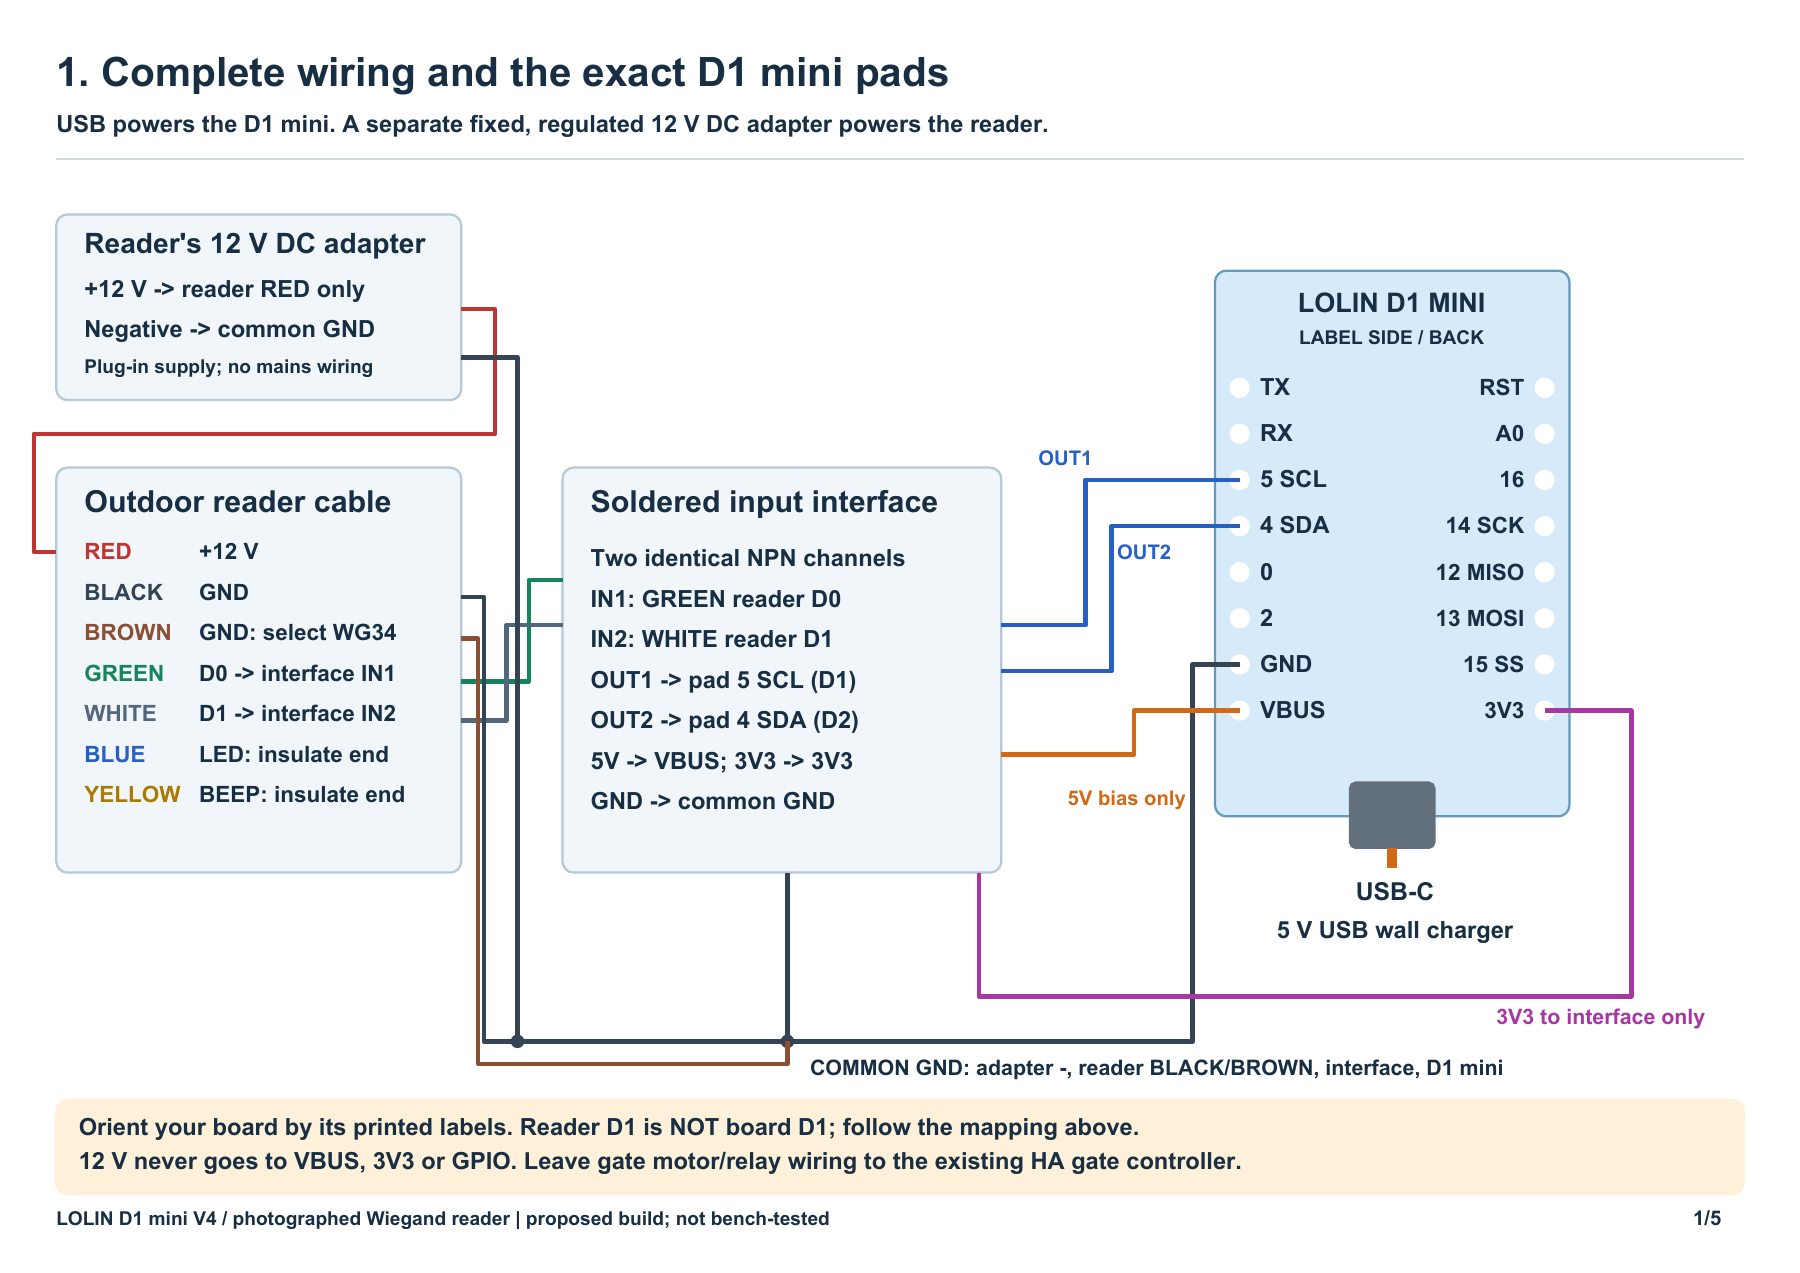
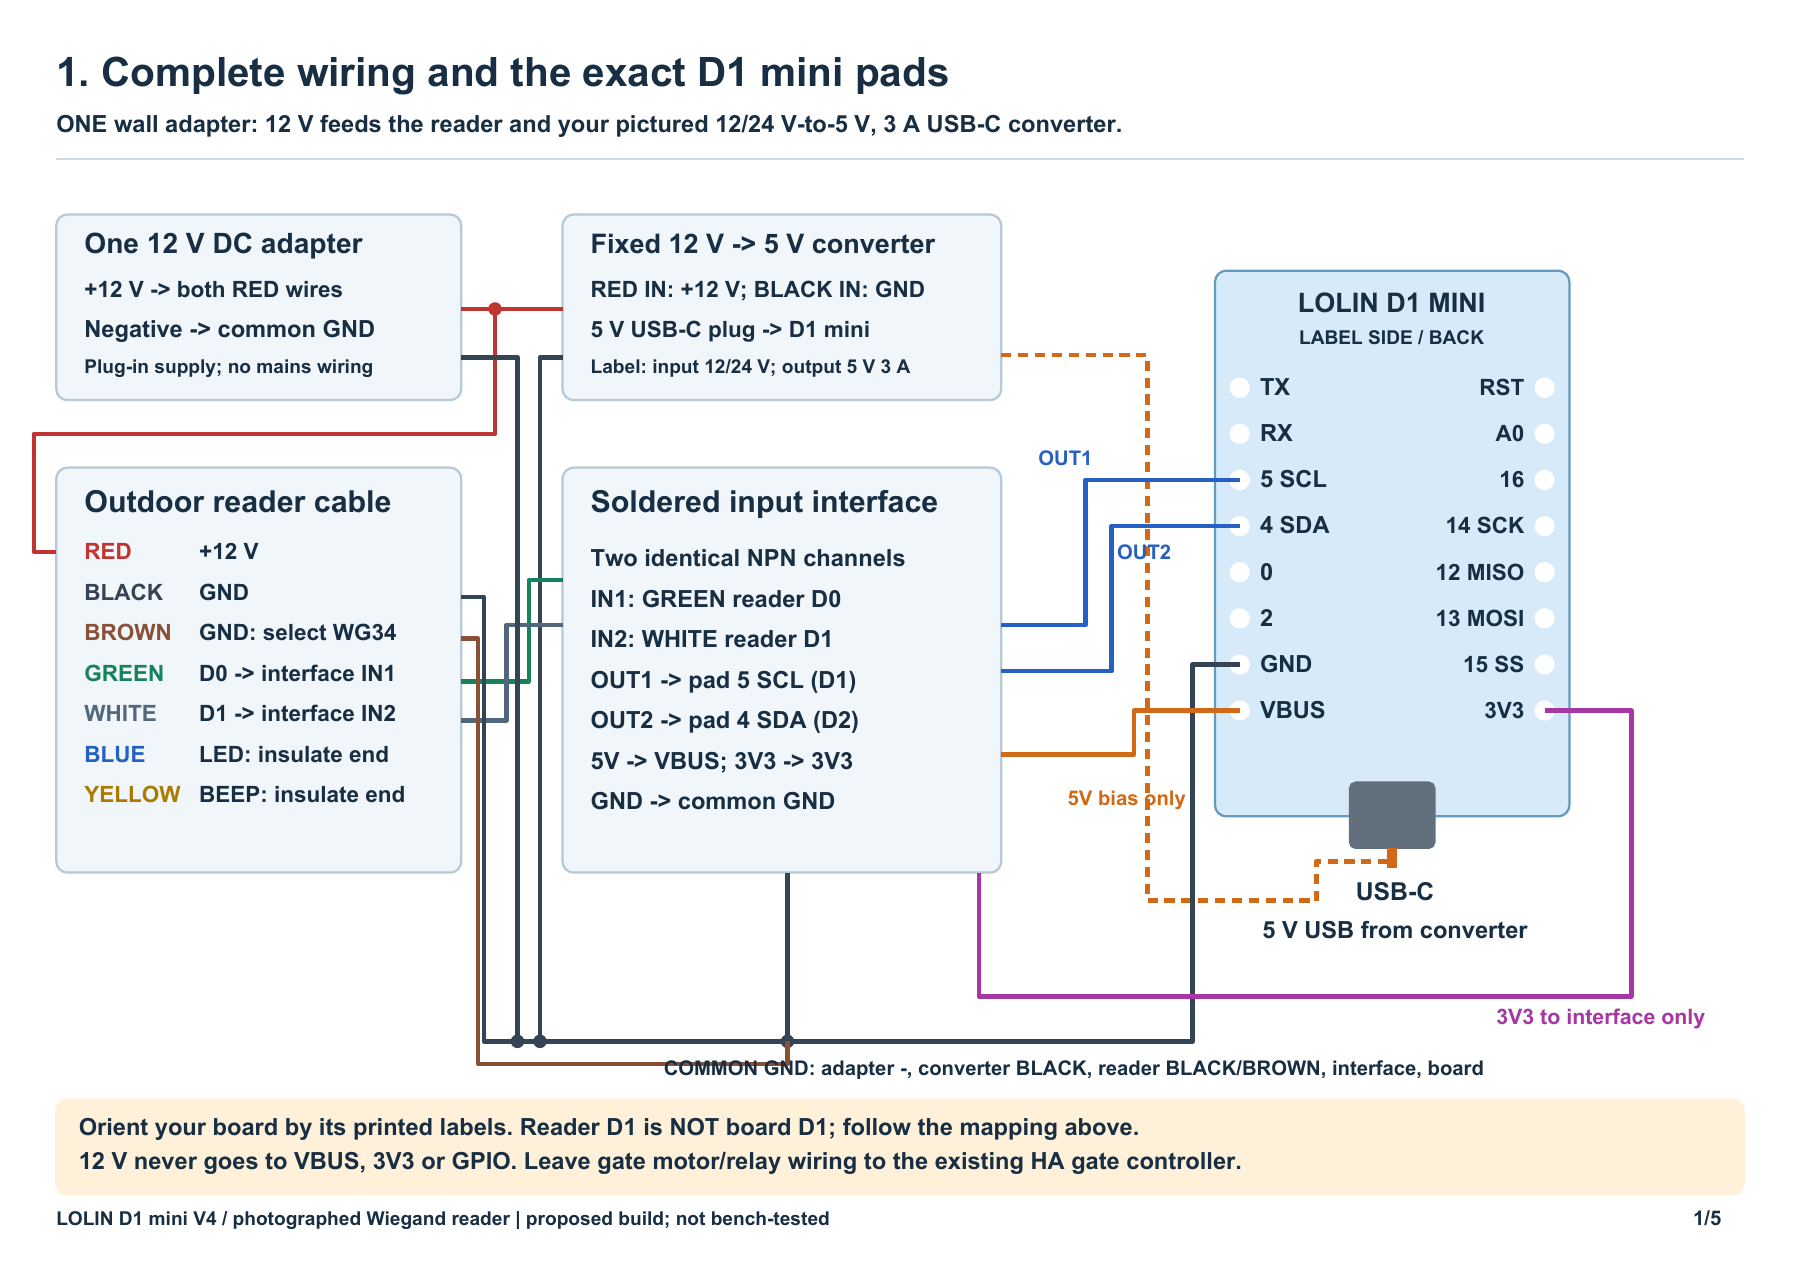
Update garage reader wiring for single 12V adapter and USB-C converter

diff --git a/tools/build_garage_wiring_guide.py b/tools/build_garage_wiring_guide.py
@@ -51,12 +51,20 @@ class Drawing:
 
 
 def overview():
-    d = Drawing("1. Complete wiring and the exact D1 mini pads", "USB powers the D1 mini. A separate fixed, regulated 12 V DC adapter powers the reader.", 1)
+    d = Drawing("1. Complete wiring and the exact D1 mini pads", "ONE wall adapter: 12 V feeds the reader and your pictured 12/24 V-to-5 V, 3 A USB-C converter.", 1)
     d.rect(50, 175, 360, 165)
-    d.text(75, 210, "Reader's 12 V DC adapter", 25, bold=True)
-    d.text(75, 249, "+12 V -> reader RED only")
+    d.text(75, 210, "One 12 V DC adapter", 25, bold=True)
+    d.text(75, 249, "+12 V -> both RED wires", 20)
     d.text(75, 284, "Negative -> common GND")
     d.text(75, 316, "Plug-in supply; no mains wiring", 17)
+    d.rect(500, 175, 390, 165)
+    d.text(525, 210, "Fixed 12 V -> 5 V converter", 24, bold=True)
+    d.text(525, 249, "RED IN: +12 V; BLACK IN: GND", 20)
+    d.text(525, 284, "5 V USB-C plug -> D1 mini", 20)
+    d.text(525, 316, "Label: input 12/24 V; output 5 V 3 A", 17)
+    d.line([(440, 259), (500, 259)], "#c03432")
+    d.dot(440, 259, "#c03432")
+    d.line([(500, 302), (480, 302), (480, 910)], COL["GND"])
     d.rect(50, 400, 360, 360)
     d.text(75, 440, "Outdoor reader cable", 27, bold=True)
     wires = [("RED", "+12 V", "#c03432"), ("BLACK", "GND", COL["GND"]), ("BROWN", "GND: select WG34", "#8a5036"), ("GREEN", "D0 -> interface IN1", COL["IN1"]), ("WHITE", "D1 -> interface IN2", COL["IN2"]), ("BLUE", "LED: insulate end", "#2760c5"), ("YELLOW", "BEEP: insulate end", "#aa7b00")]
@@ -83,8 +91,9 @@ def overview():
         d.text(1355, y + 7, right[i], 20, bold=i == 7, anchor="end")
     d.rect(1200, 680, 75, 58, "#626f7c", "#626f7c", 5)
     d.text(1240, 785, "USB-C", 22, bold=True, anchor="middle")
-    d.text(1240, 819, "5 V USB wall charger", 21, anchor="middle")
+    d.text(1240, 819, "5 V USB from converter", 21, anchor="middle")
     d.line([(1237, 738), (1237, 756)], COL["5V"], 9)
+    d.line([(890, 300), (1020, 300), (1020, 785), (1170, 785), (1170, 750), (1237, 750)], COL["5V"], 4, dash=True)
     d.line([(890, 540), (965, 540), (965, 411), (1102, 411)], COL["OUT1"])
     d.text(923, 398, "OUT1", 18, COL["OUT1"])
     d.line([(890, 581), (988, 581), (988, 452), (1102, 452)], COL["OUT2"])
@@ -94,11 +103,11 @@ def overview():
     d.line([(410, 302), (460, 302), (460, 910), (1060, 910), (1060, 575), (1102, 575)], COL["GND"])
     d.line([(890, 655), (1008, 655), (1008, 616), (1102, 616)], COL["5V"])
     d.line([(1373, 616), (1450, 616), (1450, 870), (870, 870), (870, 760)], COL["3V3"])
-    for x, y in [(460, 910), (700, 910)]: d.dot(x, y, COL["GND"])
+    for x, y in [(460, 910), (480, 910), (700, 910)]: d.dot(x, y, COL["GND"])
     d.line([(410, 515), (430, 515), (430, 910), (460, 910)], COL["GND"])
     d.line([(410, 552), (425, 552), (425, 930), (700, 930), (700, 910)], "#8a5036")
     d.line([(700, 760), (700, 910)], COL["GND"])
-    d.text(720, 940, "COMMON GND: adapter -, reader BLACK/BROWN, interface, D1 mini", 19)
+    d.text(590, 940, "COMMON GND: adapter -, converter BLACK, reader BLACK/BROWN, interface, board", 18)
     d.note(962, ["Orient your board by its printed labels. Reader D1 is NOT board D1; follow the mapping above.", "12 V never goes to VBUS, 3V3 or GPIO. Leave gate motor/relay wiring to the existing HA gate controller."])
     return d.save("garage-reader-wiring.svg")
 
@@ -260,14 +269,14 @@ def layout(bottom=False):
 
 
 def steps():
-    d=Drawing("5. Parts, soldering order and first power-up", "You already have the reader and D1 mini. The interface parts and reader power supply are still needed.",5)
+    d=Drawing("5. Parts, soldering order and first power-up", "Single-adapter build: use your purchased 12/24 V-input, 5 V / 3 A-output converter with USB-C plug.",5)
     d.text(50,175,"Additional parts",27,bold=True)
-    items=[("2", "2N3904 NPN, TO-92; matching E-B-C pinout"),("2", "1N4148 axial diodes"),("4", "10k ohm resistors, 1/4 W, 1% or 5%"),("2", "47k ohm resistors, 1/4 W, 1% or 5%"),("2", "100k ohm resistors, 1/4 W, 1% or 5%"),("1", "Isolated-pad perfboard, >=24 x 20 holes (2.54 mm)"),("1", "Fixed regulated 12 V DC wall adapter"),("1", "Matching DC barrel-to-screw adapter, if needed"),("1", "5 V USB charger + USB-C cable for the D1 mini"),("-", "Insulated wire, solder, flux, heat-shrink, enclosure")]
+    items=[("2", "2N3904 NPN, TO-92; matching E-B-C pinout"),("2", "1N4148 axial diodes"),("4", "10k ohm resistors, 1/4 W, 1% or 5%"),("2", "47k ohm resistors, 1/4 W, 1% or 5%"),("2", "100k ohm resistors, 1/4 W, 1% or 5%"),("1", "Isolated-pad perfboard, >=24 x 20 holes (2.54 mm)"),("1", "Fixed regulated 12 V DC wall adapter"),("1", "Matching DC barrel-to-screw adapter, if needed"),("1", "Purchased fixed 5 V / 3 A USB-C converter"),("-", "Insulated wire, solder, flux, heat-shrink, enclosure")]
     for i,(qty,item) in enumerate(items):
         d.text(55,217+i*35,qty,23,bold=True)
         d.text(95,217+i*35,item,21)
-    d.text(55,610,"Reader current rating is unknown: choose a regulated",20)
-    d.text(55,640,"12 V supply with at least 1 A available for this reader.",20)
+    d.text(55,610,"12 V supply capacity must cover reader + converter.",20)
+    d.text(55,640,"5 V / 3 A is output capacity, not constant current draw.",20)
     d.text(55,686,"Resistor identification (4-band, gold tolerance)",23,bold=True)
     for i,t in enumerate(["10k: brown - black - orange - gold", "47k: yellow - violet - orange - gold", "100k: brown - black - yellow - gold"]):d.text(55,723+i*32,t,21)
     d.text(55,846,"2N3904 FRONT VIEW",21,bold=True)
@@ -278,8 +287,8 @@ def steps():
     for x,label in [(480,"E"),(528,"B"),(576,"C")]:
         d.line([(x,868),(x,903)],INK,5)
         d.text(x,927,label,20,bold=True,anchor="middle")
-    d.text(850,175,"Build with both supplies unplugged",27,bold=True)
-    lines=["1. Solder the D1 mini headers, or use short wires", "   directly on the labelled pads shown on page 1.", "2. Insert resistors and diodes per page 3. Resistors", "   have no polarity; diode stripes must face H2/H12.", "3. Fit both 2N3904s. Spread leads gently to the holes;", "   keep E, B and C separate. Solder; trim the leads.", "4. Add INSULATED wires on the copper side using", "   the page 4 groups. No stripboard / common rows.", "5. Connect the seven interface wire pads below.", "6. Connect RED to adapter +12 V. Adapter negative,", "   reader BLACK/BROWN and board GND join together.", "7. Heat-shrink BLUE and YELLOW separately. Secure", "   the cable; mount the interface/controller indoors.", "8. Inspect both sides closely for shorts and loose", "   strands. Neither supply is connected yet.", "9. Flash garage-reader.yaml over USB. Then power", "   the reader with 12 V. Keep the common GND wire.", "10. Check Last Frame Bits = 34 and Last Card in HA.", "    Try a notification before enabling gate actions."]
+    d.text(850,175,"Build with adapter and USB unplugged",27,bold=True)
+    lines=["1. Solder the D1 mini headers, or use short wires", "   directly on the labelled pads shown on page 1.", "2. Insert resistors and diodes per page 3. Resistors", "   have no polarity; diode stripes must face H2/H12.", "3. Fit both 2N3904s. Spread leads gently to the holes;", "   keep E, B and C separate. Solder; trim the leads.", "4. Add INSULATED wires on the copper side using", "   the page 4 groups. No stripboard / common rows.", "5. Connect the seven interface wire pads below.", "6. +12 V -> reader RED + converter RED. Negative", "   joins converter BLACK, reader BLACK/BROWN, GND.", "7. Insulate BLUE/YELLOW. Keep controller, converter", "   and interface indoors; secure all cables.", "8. Inspect for shorts. Check actual converter label", "   says 12/24 V input, 5 V output before power-up.", "9. Flash with PC USB; unplug converter USB first.", "   Then swap PC USB for converter USB and power 12 V.", "10. Check Last Frame Bits = 34 and Last Card in HA.", "    Try a notification before enabling gate actions."]
     for i,t in enumerate(lines):d.text(850,215+i*29,t,20)
     d.text(850,809,"Interface pads -> external wires",23,bold=True)
     for i,t in enumerate(["B2 -> board VBUS; V2 -> board 3V3; V18 -> GND", "B6 -> GREEN; B16 -> WHITE", "V6 -> board 5 SCL; V16 -> board 4 SDA"]):d.text(850,847+i*31,t,21)

diff --git a/docs/garage-reader-setup.md b/docs/garage-reader-setup.md
@@ -25,24 +25,43 @@ with the movie reader's PN532 are not necessarily compatible with this reader.
 Use the [five-page printable wiring and soldering guide](../output/pdf/garage-reader-soldering-guide.pdf).
 It shows your exact D1 mini pads, both electrical circuits, component placement,
 the mirrored solder side, and the soldering sequence. It keeps your existing
-reader and controller. The new drawings use **USB power for the D1 mini and a
-separate fixed regulated 12 V adapter for the reader**, so an adjustable buck
-converter and a meter to set its output are not needed.
+reader and controller. The drawings now use **one fixed regulated 12 V adapter**
+for both the reader and your purchased converter. The converter shown in your
+screenshot is labelled **12/24 V input, 5 V / 3 A output**, with red/black input
+wires and a **male USB-C output plug**. Plug that directly into the D1 mini;
+no second wall adapter or separate USB cable is needed for normal operation.
+It has a fixed output, so there is no adjustment screw to set with a meter.
 
 The interface parts and reader power supply are **additional parts**; the two
 photographed devices alone are not the complete build. The input circuit is a
 proposed design for ordinary 0–12 V signals, not a measured specification of your
 reader or a bench-tested assembly. Having no meter does not establish that direct
-GPIO wiring or a 5 V-only converter would work.
+GPIO wiring would work. The converter supplies power only; it does not replace
+the two NPN data interfaces.
 
 ![Wiring diagram](garage-reader-wiring.svg)
 
-Add a **fixed regulated 12 V DC plug-in supply** for the reader. Its exact current
-rating is unknown; 12 V / 1 A is a conservative starting choice for this reader
-alone, not a verified minimum requirement. Use a barrel-to-screw adapter matching
-the supply connector and its marked polarity if needed. Do not cut into or assemble
-mains wiring. Power the D1 mini using a **5 V USB wall charger and USB-C cable**.
-Connect the DC grounds together as shown.
+Use a **fixed regulated 12 V DC plug-in supply**. Its capacity must cover the
+reader plus the converter's input current for the D1 mini. The reader's draw
+is unknown, so the earlier 12 V / 1 A suggestion is not a verified combined-load
+requirement. A 12 V / 2 A supply provides more capacity for this small build,
+but does not guarantee an unmeasured load. The converter's 5 V / 3 A marking is
+its maximum output capacity, not the D1 mini's constant current draw.
+Use a female barrel-to-screw adapter matching your supply plug and marked polarity.
+Do not cut into or assemble mains wiring. Make the following DC connections with
+the adapter unplugged:
+
+| Connection | Wires / plug |
+|---|---|
+| Adapter positive (+12 V) | Reader RED and converter RED input |
+| Adapter negative (GND) | Reader BLACK, reader BROWN, converter BLACK input, interface GND and D1 mini GND |
+| Converter 5 V output | Its USB-C plug directly into the D1 mini USB-C socket |
+| D1 mini VBUS | Interface pad B2, for the 5 V reader-line bias only |
+
+Use a labelled insulated terminal connector or properly soldered, heat-shrunk
+wire branches to split the +12 V and ground. Multiple wires in one screw terminal
+are acceptable only if that terminal is designed to hold their sizes and number.
+Check the actual converter label against the screenshot when it arrives.
 
 For the complete two-channel interface, obtain:
 
@@ -76,12 +95,17 @@ Both firmware inputs therefore require `inverted: true`. This proposed interface
 handles ordinary 0–12 V logic, including open-collector or driven outputs. It is
 not a certified outdoor lightning/surge isolator. Keep the GPIO wires short.
 
-Power reader red from the adapter's +12 V, and power the D1 mini through USB-C.
+Power reader red and converter red from the adapter's +12 V. The converter's
+fixed 5 V USB-C output powers the D1 mini.
 The board's **VBUS pad supplies the interface's 5 V bias**; do not attach another
-5 V supply to VBUS while USB is connected. Connect adapter negative, reader black,
-reader brown, both emitters and board GND together. Board **3V3** supplies only the
+5 V supply to VBUS while USB is connected. Connect adapter negative, converter
+black, reader black, reader brown, both emitters and board GND together. Board **3V3** supplies only the
 collector pull-ups. Never feed 12 V to VBUS, 3V3 or GPIO. For flashing, the USB cable
-can come from the computer instead of the USB wall charger; keep the common ground.
+must come from the computer instead of the converter: unplug the 12 V adapter,
+remove the converter's USB-C plug, then connect the computer's USB cable.
+After flashing, unplug the computer USB cable, reconnect the converter plug,
+and power the 12 V adapter. Keep the common ground throughout. Never combine
+the converter and computer USB supplies using a splitter.
 
 ## Detailed soldering layout
 
@@ -146,7 +170,7 @@ row 7. Fit **Q2 emitter at J16, base at K16, collector at L16**, flat face towar
 row 17. This assumes the specified 2N3904 pin order; check the supplier's drawing
 before soldering. Do not substitute a BC547 without remapping its legs.
 
-Keep both supplies unplugged throughout soldering. Solder the D1 mini headers
+Keep the 12 V adapter and computer USB unplugged throughout soldering. Solder the D1 mini headers
 provided in your photos, or short insulated wires directly onto the named pads.
 Do not join adjacent header pads. Assemble the perfboard using the PDF's sequence,
 connect the external wires, and cover the blue/yellow reader wire ends separately.
@@ -236,11 +260,12 @@ another scan can recreate that entry. A card can have multiple rights automation
 
 ## Bench checks before enabling door actions
 
-1. With both supplies unplugged, compare every lead and pad group with the
+1. With the 12 V adapter and computer USB unplugged, compare every lead and pad group with the
    drawings. Inspect both sides with good lighting and magnification for solder
    bridges, touching bare leads and loose wire strands. Verify the adapter is
    labelled regulated 12 V DC and match its polarity to the connector labels.
-   Use USB power for the D1 mini; no adjustable buck is needed.
+   Check converter RED is on +12 V and BLACK is on ground. Its label must specify
+   fixed 5 V output. Its USB-C plug powers the D1 mini; no adjustable buck is needed.
 2. **If test equipment becomes available**, check ground continuity and supply
    polarity first. With GPIOs disconnected, measure green/white against black;
    the proposed circuit assumes ordinary 0–12 V logic. Powered collectors should

diff --git a/README.md b/README.md
@@ -9,8 +9,10 @@ Adding or naming a card alone grants no access. Permissions live in Home Assista
 
 For detailed soldering, use the [five-page printable guide](output/pdf/garage-reader-soldering-guide.pdf).
 It includes exact board pads, both circuits, perfboard placement and mirrored
-solder-side wire groups. Power the D1 mini by USB and the reader with a separate
-fixed regulated 12 V adapter; no adjustable buck converter is needed.
+solder-side wire groups. Use **one fixed regulated 12 V adapter**: split its DC
+output between the reader and your **12/24 V-to-5 V, 3 A USB-C converter**.
+The converter's USB-C plug powers the D1 mini directly. No second wall adapter
+or additional USB cable is needed for normal operation.
 
 ![Wiring diagram](docs/garage-reader-wiring.svg)
 

diff --git a/docs/garage-reader-hardware-research.md b/docs/garage-reader-hardware-research.md
@@ -55,9 +55,9 @@ This replaces both NPN input circuits. Power wiring remains as in the main guide
 
 | Connection | Destination |
 |---|---|
-| Converter HV | Regulated 5 V from the buck |
+| Converter HV | D1 mini VBUS, powered by the fixed 5 V USB-C power converter |
 | Converter LV | D1 mini 3V3 |
-| Converter GND | Common reader/buck/D1 mini ground |
+| Converter GND | Common reader/power-converter/D1 mini ground |
 | Reader green D0 | Converter HV1 |
 | Converter LV1 | D1 mini D1 / GPIO5 / printed 5 SCL |
 | Reader white D1 | Converter HV2 |
